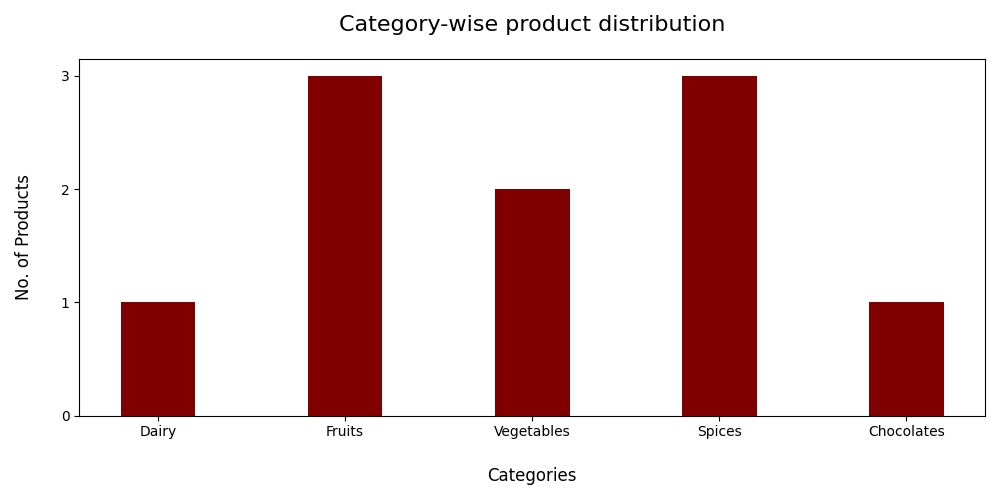
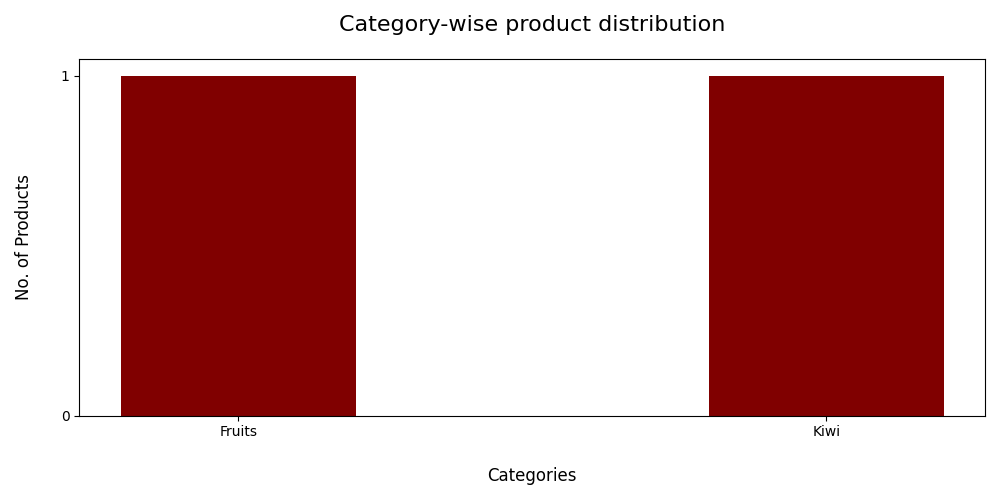
admin summary implemented

diff --git a/frontend/src/components/admin/Navbar.vue b/frontend/src/components/admin/Navbar.vue
@@ -8,6 +8,7 @@
             </button>
             <div class="collapse navbar-collapse" id="navbarSupportedContent">
                 <div class="navbar-nav ms-auto mb-2 mb-lg-0 gap-2">
+                    <a @click="getSummary()" class="btn btn-outline-light" style="margin-left: 5px">Summary</a>
                     <a href="/approve" class="btn btn-outline-light" style="margin-left: 5px">Approvals</a>
                     <a href="/logout" class="btn btn-outline-light" style="margin-left: 5px">Logout</a>
                 </div>
@@ -15,3 +16,25 @@
         </div>
     </nav>
 </template>
+<script>
+import axios from 'axios';
+export default{
+    data(){
+        return {
+            userSession: JSON.parse(localStorage.getItem("userSession")) || null,
+        }
+    },
+    methods:{
+        async getSummary(){
+            if (this.userSession){
+                    axios.defaults.headers.common["Authorization"] = `Bearer ${this.userSession.token}`;
+                await axios
+                    .get("http://localhost:1430/admin-api/summary")
+                    .then((response)=>response)
+                    .then((response)=>response.data)
+                    .then((results)=>{alert(results)})
+            }else{alert("Please login and try again!")}
+        }
+    }
+}
+</script>

diff --git a/backend/templates/monthly_report.html b/backend/templates/monthly_report.html
@@ -3,7 +3,7 @@
 <head>
     <meta charset="utf-8">
     <meta name="viewport" content="width=device-width, initial-scale=1.0, shrink-to-fit=no">
-    <title>Admin Monthly Report</title>
+    <title>Admin Report</title>
     <link href="https://cdn.jsdelivr.net/npm/bootstrap@5.2.3/dist/css/bootstrap.min.css" rel="stylesheet" integrity="sha384-rbsA2VBKQhggwzxH7pPCaAqO46MgnOM80zW1RWuH61DGLwZJEdK2Kadq2F9CUG65" crossorigin="anonymous">
 </head>
 
@@ -14,7 +14,7 @@
                 <div>
                     <div class="py-4 d-flex">
                         <div>
-                            <h4>Admin Monthly Report</h4>
+                            <h4>Admin Report</h4>
                         </div>
                     </div>
                     <div class="py-4 d-flex">

diff --git a/frontend/src/router/index.js b/frontend/src/router/index.js
@@ -63,8 +63,6 @@ const router = createRouter({
           console.log("No session or role, redirecting to login");
           next('/login');
         }
-
-        
       }      
     },
     {
@@ -113,7 +111,7 @@ const router = createRouter({
         localStorage.removeItem("userSession");
         next('/login');
       }
-    }
+    },
   ]
 })
 

diff --git a/backend/application/apis.py b/backend/application/apis.py
@@ -5,7 +5,10 @@ from passlib.hash import pbkdf2_sha256 as passhash
 from application.cache import cache
 import jwt, secrets,datetime
 from application import tasks
-
+import matplotlib
+import matplotlib.pyplot as plt
+from matplotlib.ticker import MaxNLocator
+matplotlib.use("Agg")
 @app.route("/api/categories", methods = ["GET", "POST"])
 def getCategories():
     if request.method == "GET":
@@ -628,3 +631,42 @@ def export_category(cid):
             return "User not authorized"
     else:
         return "Invalid HTTP Request"
+
+@app.route("/admin-api/summary")
+def admin_summary():
+    if request.method=="GET":
+        token=request.headers.get("Authorization", "").split(" ")[-1]
+        if token:
+            decodedToken=jwt.decode(token,app.secret_key,algorithms=["HS256"])
+            user_id=get_user_id_by_token(decodedToken['token'])
+            if user_id==1:
+                dict = {}
+                    
+                cat_list = Category.query.distinct(Category.cname).all()
+
+                for cat in cat_list:
+                    products = Product.query.filter_by(category_id=cat.cid)
+                    count = products.count()
+                    dict.update({cat.cname : count})
+                
+                categories = list(dict.keys())
+                product_count = list(dict.values())
+                fig = plt.figure(figsize = (10, 5)).gca()
+                fig.yaxis.set_major_locator(MaxNLocator(integer=True))
+
+                # creating the bar plot
+                plt.bar(categories, product_count, color ='maroon', width = 0.4)
+                plt.xlabel("Categories", fontsize=12, labelpad=20)
+                plt.ylabel("No. of Products", fontsize=12, labelpad=20)
+                plt.title("Category-wise product distribution", fontsize=16, pad=20)
+                plt.tight_layout()
+                plt.savefig("backend/static/graph.png")
+                tasks.monthly_report.delay()
+                return "Admin summary successfully generated and emailed to you."
+            else:
+                return "User operation not allowed"
+        else:
+            return "User not authorized"
+    else:
+        return "Invalid HTTP Request"
+            

diff --git a/backend/application/tasks.py b/backend/application/tasks.py
@@ -31,7 +31,7 @@ def monthly_report():
     msg = MIMEMultipart()
     msg["From"] = SENDER_ADDRESS
     msg["To"] = "admin@grocilla.com"
-    msg["Subject"] = "Admin Monthly Report"
+    msg["Subject"] = "Admin Report"
     template = render_template("monthly_report.html")
     msg.attach(MIMEText(template, "html"))
 
